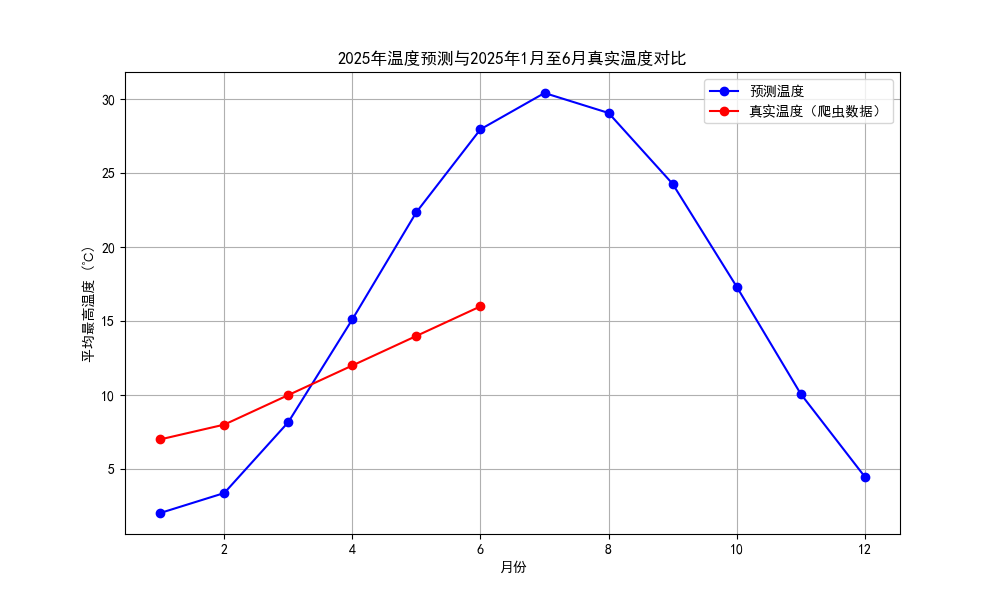
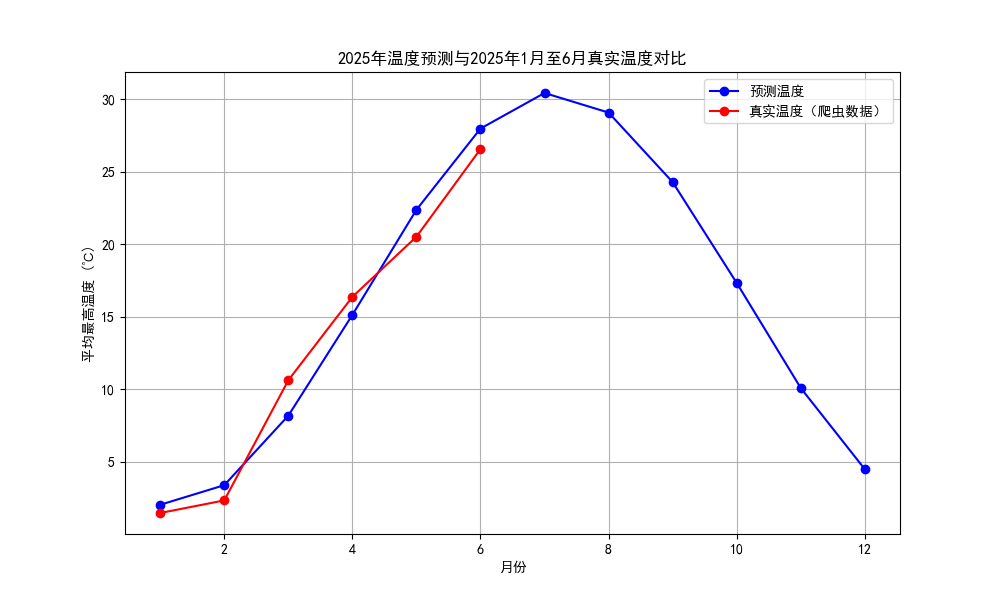
first commit

diff --git a/test_12_AI/main.py b/test_12_AI/main.py
@@ -2,78 +2,72 @@ import pandas as pd
 import numpy as np
 import matplotlib.pyplot as plt
 from sklearn.linear_model import LinearRegression
-from sklearn.model_selection import train_test_split
-from sklearn.metrics import mean_squared_error
 
-# 解决中文显示问题
-plt.rcParams['font.sans-serif'] = ['SimHei']  # 设置字体为黑体
-plt.rcParams['axes.unicode_minus'] = False  # 解决负号显示问题
+# 设置中文显示
+plt.rcParams['font.sans-serif'] = ['SimHei']
+plt.rcParams['axes.unicode_minus'] = False
 
-# 读取数据
-file_path = r'C:\\Users\\Grand_Caster\\Desktop\\test_01\\test_01.xlsx'
+# === 读取主数据文件（2022-2024） ===
+file_path = r'C:\Users\Grand_Caster\Desktop\Python_大连市天气作业\test_01\test_01.xlsx'
 df = pd.read_excel(file_path, engine='openpyxl')
 
-# 数据预处理：提取日期中的年、月信息
+# 数据预处理
 df['日期'] = pd.to_datetime(df['日期'], format='%Y年%m月%d日')
 df['年'] = df['日期'].dt.year
 df['月'] = df['日期'].dt.month
+df['最高温度'] = df['最高温度'].apply(lambda x: int(str(x).replace('℃', '')) if isinstance(x, str) else x)
 
-# 转换 "最高温度" 列为数值类型，并去掉 "℃"
-df['最高温度'] = df['最高温度'].apply(lambda x: int(x.replace('℃', '')) if isinstance(x, str) else x)
-
-# 按年和月计算每月的平均最高温度
+# 按年和月计算每月平均最高温度
 monthly_avg_temp = df.groupby(['年', '月'])['最高温度'].mean().reset_index()
 
-# 特征和标签准备
-X = monthly_avg_temp[['年', '月']]  # 年份和月份作为特征
-y = monthly_avg_temp['最高温度']    # 平均最高温度作为标签
+# 特征构造
+X = monthly_avg_temp[['年', '月']]
+y = monthly_avg_temp['最高温度']
+X['月_sin'] = np.sin(2 * np.pi * X['月'] / 12)
+X['月_cos'] = np.cos(2 * np.pi * X['月'] / 12)
 
-# 将月份转换为周期性特征：使用正弦和余弦
-X['月_sin'] = np.sin(2 * np.pi * X['月'] / 12)  # 使用正弦函数表示月份
-X['月_cos'] = np.cos(2 * np.pi * X['月'] / 12)  # 使用余弦函数表示月份
-
-# 划分训练集和测试集（这里只用前三年训练）
-X_train = X[X['年'] < 2025]  # 只用2022和2023年的数据
+# 划分训练集（<2025）用于预测
+X_train = X[X['年'] < 2025]
 y_train = y[X['年'] < 2025]
-X_test = X[X['年'] == 2024]  # 用2024年数据来测试
-y_test = y[X['年'] == 2024]
 
-# 训练线性回归模型
+# 模型训练
 model = LinearRegression()
-model.fit(X_train[['月_sin', '月_cos']], y_train)  # 使用周期性特征训练模型
+model.fit(X_train[['月_sin', '月_cos']], y_train)
 
-# 预测2025年1月到12月的温度
+# === 构造 2025 年的预测月份数据 ===
 months_2025 = pd.DataFrame({'年': [2025]*12, '月': range(1, 13)})
 months_2025['月_sin'] = np.sin(2 * np.pi * months_2025['月'] / 12)
 months_2025['月_cos'] = np.cos(2 * np.pi * months_2025['月'] / 12)
 
+# 预测结果
 y_pred_2025 = model.predict(months_2025[['月_sin', '月_cos']])
 
-# 获取真实数据：2025年1月到6月的真实数据（暂时没有，但可以在实际中替换成爬取的结果）
-real_data_2025 = [7, 8, 10, 12, 14, 16]  # 这是一个示例，实际需要从爬虫中获得
+# === 从 Excel 读取真实 2025 年 1~6 月爬虫数据 ===
+real_file_path = r'C:\Users\Grand_Caster\Desktop\Python_大连市天气作业\test_01\test_01_2025_1_7.xlsx'
+df_real = pd.read_excel(real_file_path, engine='openpyxl')
+df_real['日期'] = pd.to_datetime(df_real['日期'], format='%Y年%m月%d日')
+df_real['年'] = df_real['日期'].dt.year
+df_real['月'] = df_real['日期'].dt.month
+df_real['最高温度'] = df_real['最高温度'].apply(lambda x: int(str(x).replace('℃', '')) if isinstance(x, str) else x)
 
-# 合并预测数据和真实数据
-predicted_real_data = y_pred_2025[:6]
-real_data_combined = list(zip(range(1, 7), predicted_real_data, real_data_2025))
+# 计算 2025 年前 6 月的平均最高温度
+monthly_avg_real = df_real[df_real['年'] == 2025].groupby('月')['最高温度'].mean().loc[1:6]
+real_data_2025 = monthly_avg_real.tolist()
 
-# 绘制预测结果和真实结果对比的折线图
+# === 绘图对比 ===
 plt.figure(figsize=(10, 6))
 plt.plot(months_2025['月'], y_pred_2025, label='预测温度', marker='o', color='blue')
 plt.plot(range(1, 7), real_data_2025, label='真实温度（爬虫数据）', marker='o', color='red')
 
-# 设置标签和标题
+# 图表细节
 plt.xlabel('月份')
 plt.ylabel('平均最高温度 (℃)')
 plt.title('2025年温度预测与2025年1月至6月真实温度对比')
-
-# 添加图例
 plt.legend()
-
-# 显示网格
 plt.grid(True)
 
-# 保存图表
-plt.savefig(r'C:\\Users\\Grand_Caster\\Desktop\\test_01\\temperature_prediction_2025_full_year.png')  # 保存图表
+# 保存图像
+plt.savefig(r'C:\Users\Grand_Caster\Desktop\Python_大连市天气作业\test_01\temperature_prediction_2025_full_year.png')
 plt.show()
 
 # 输出预测结果
